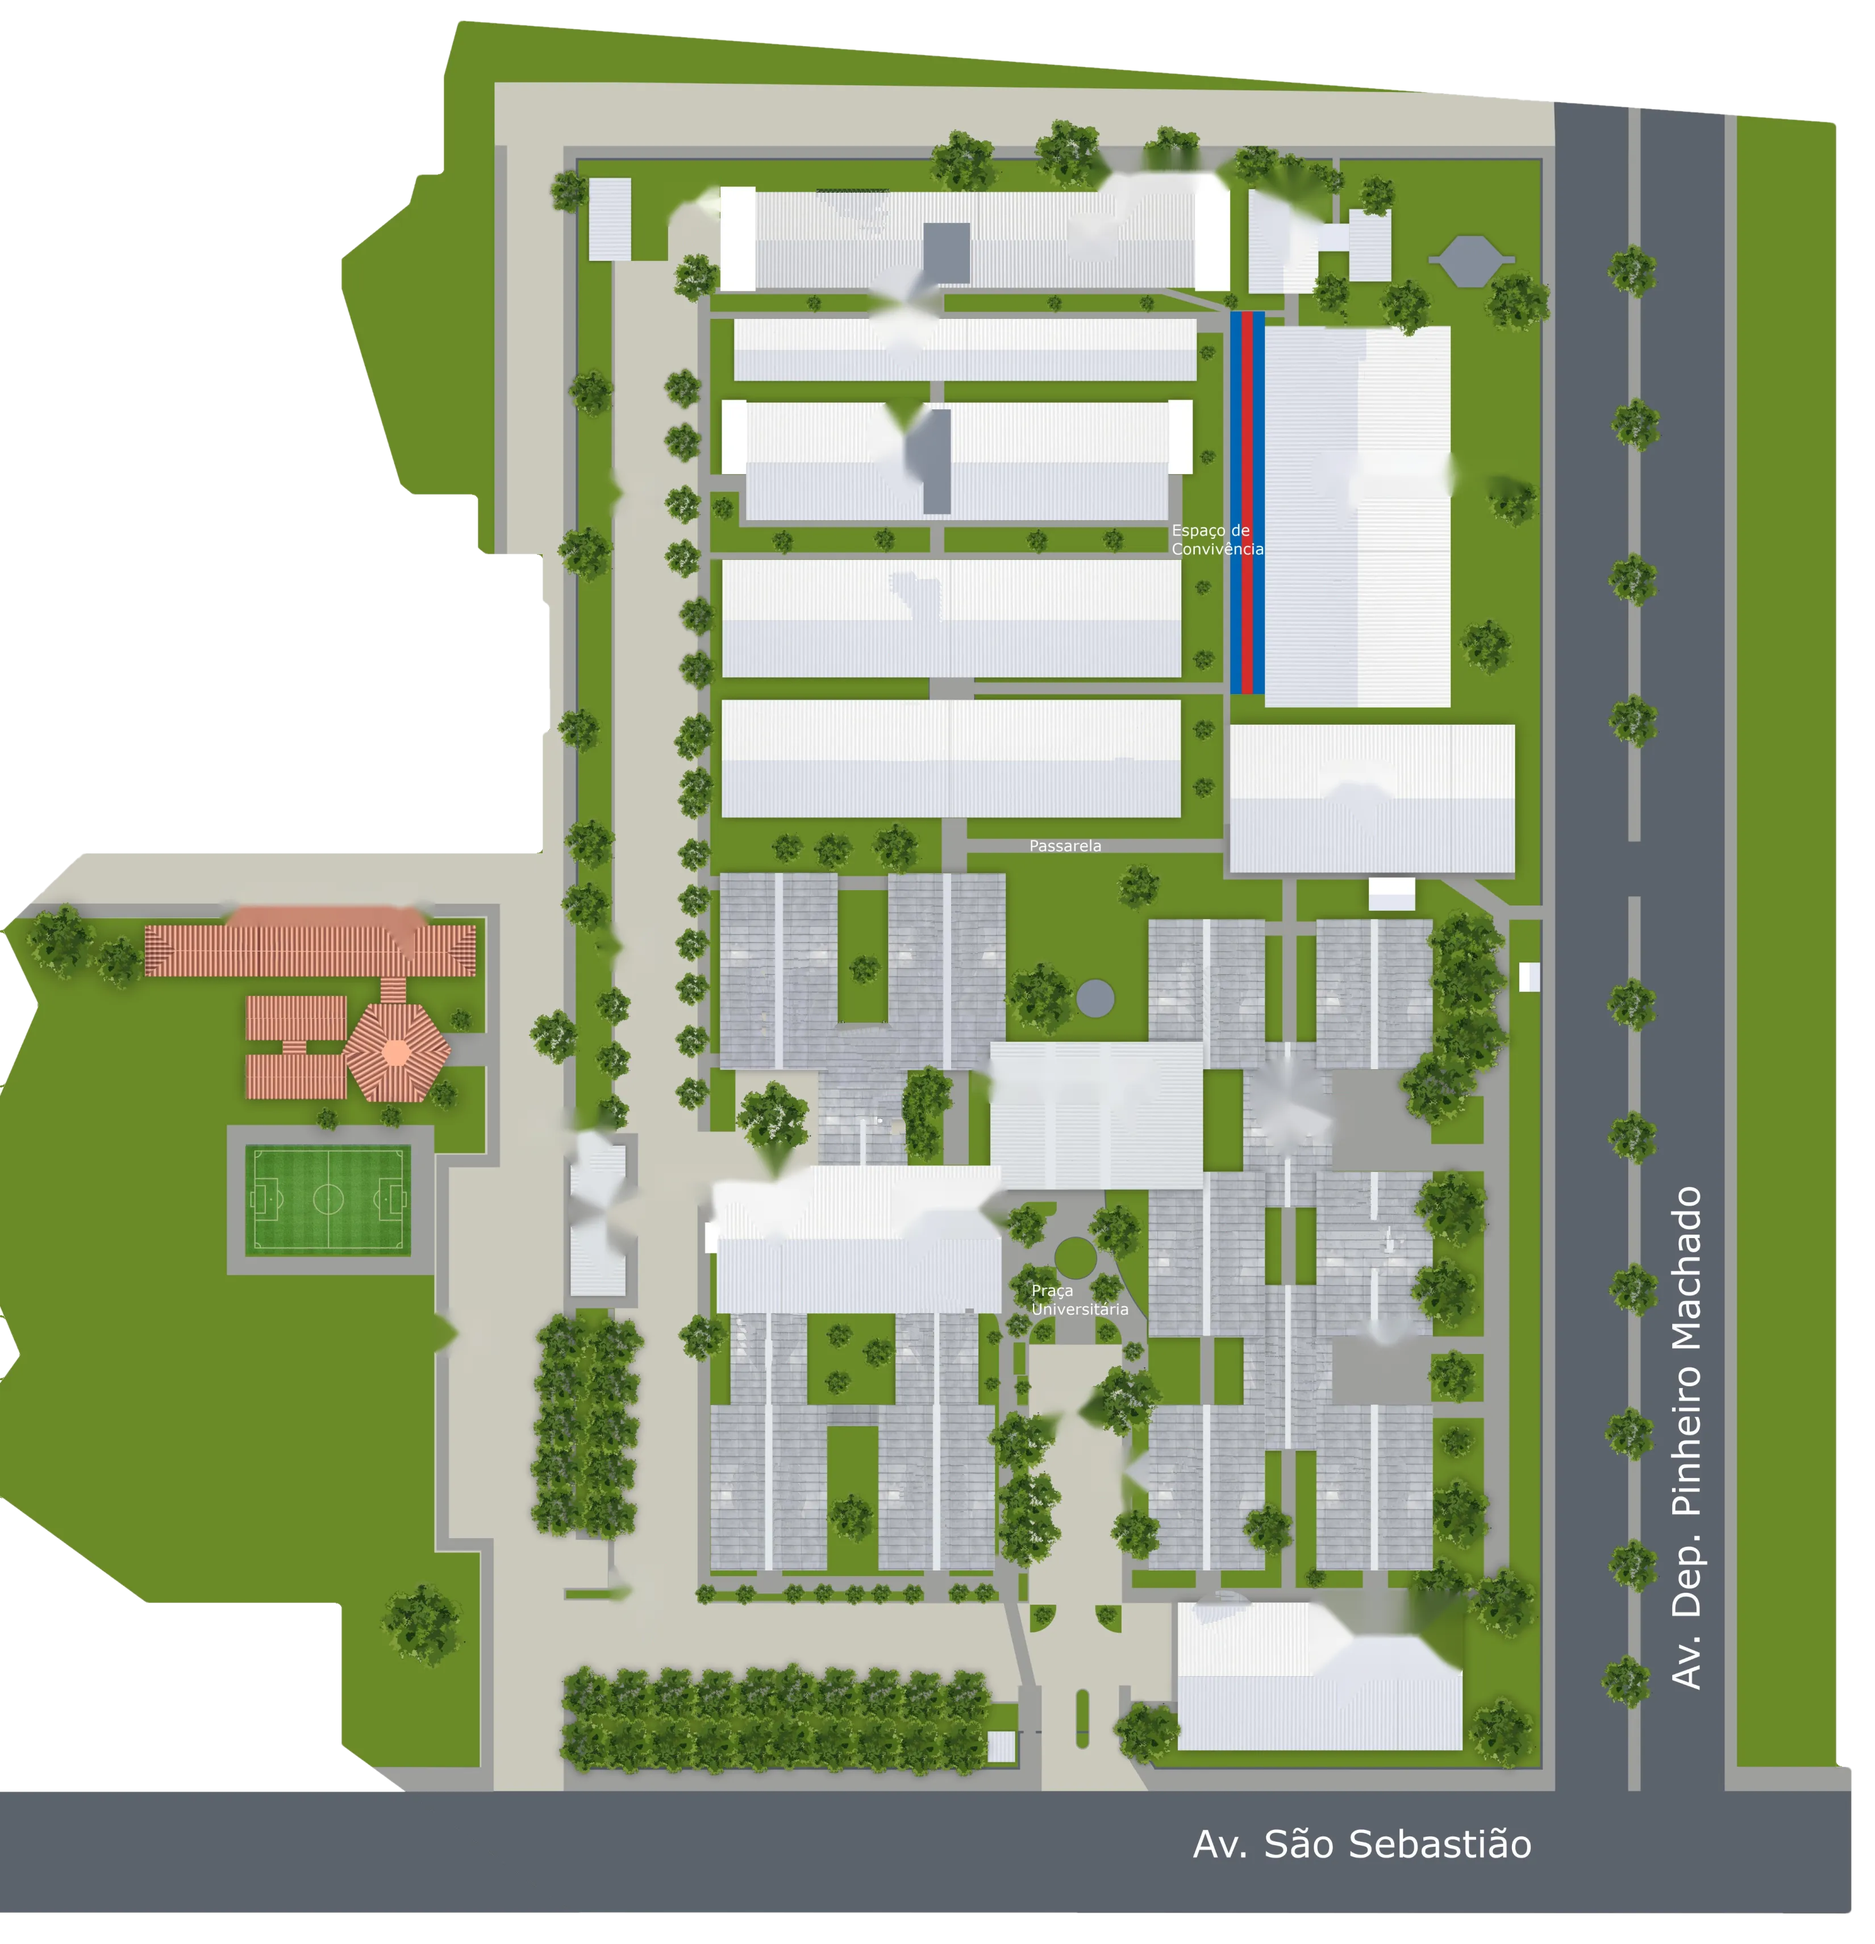
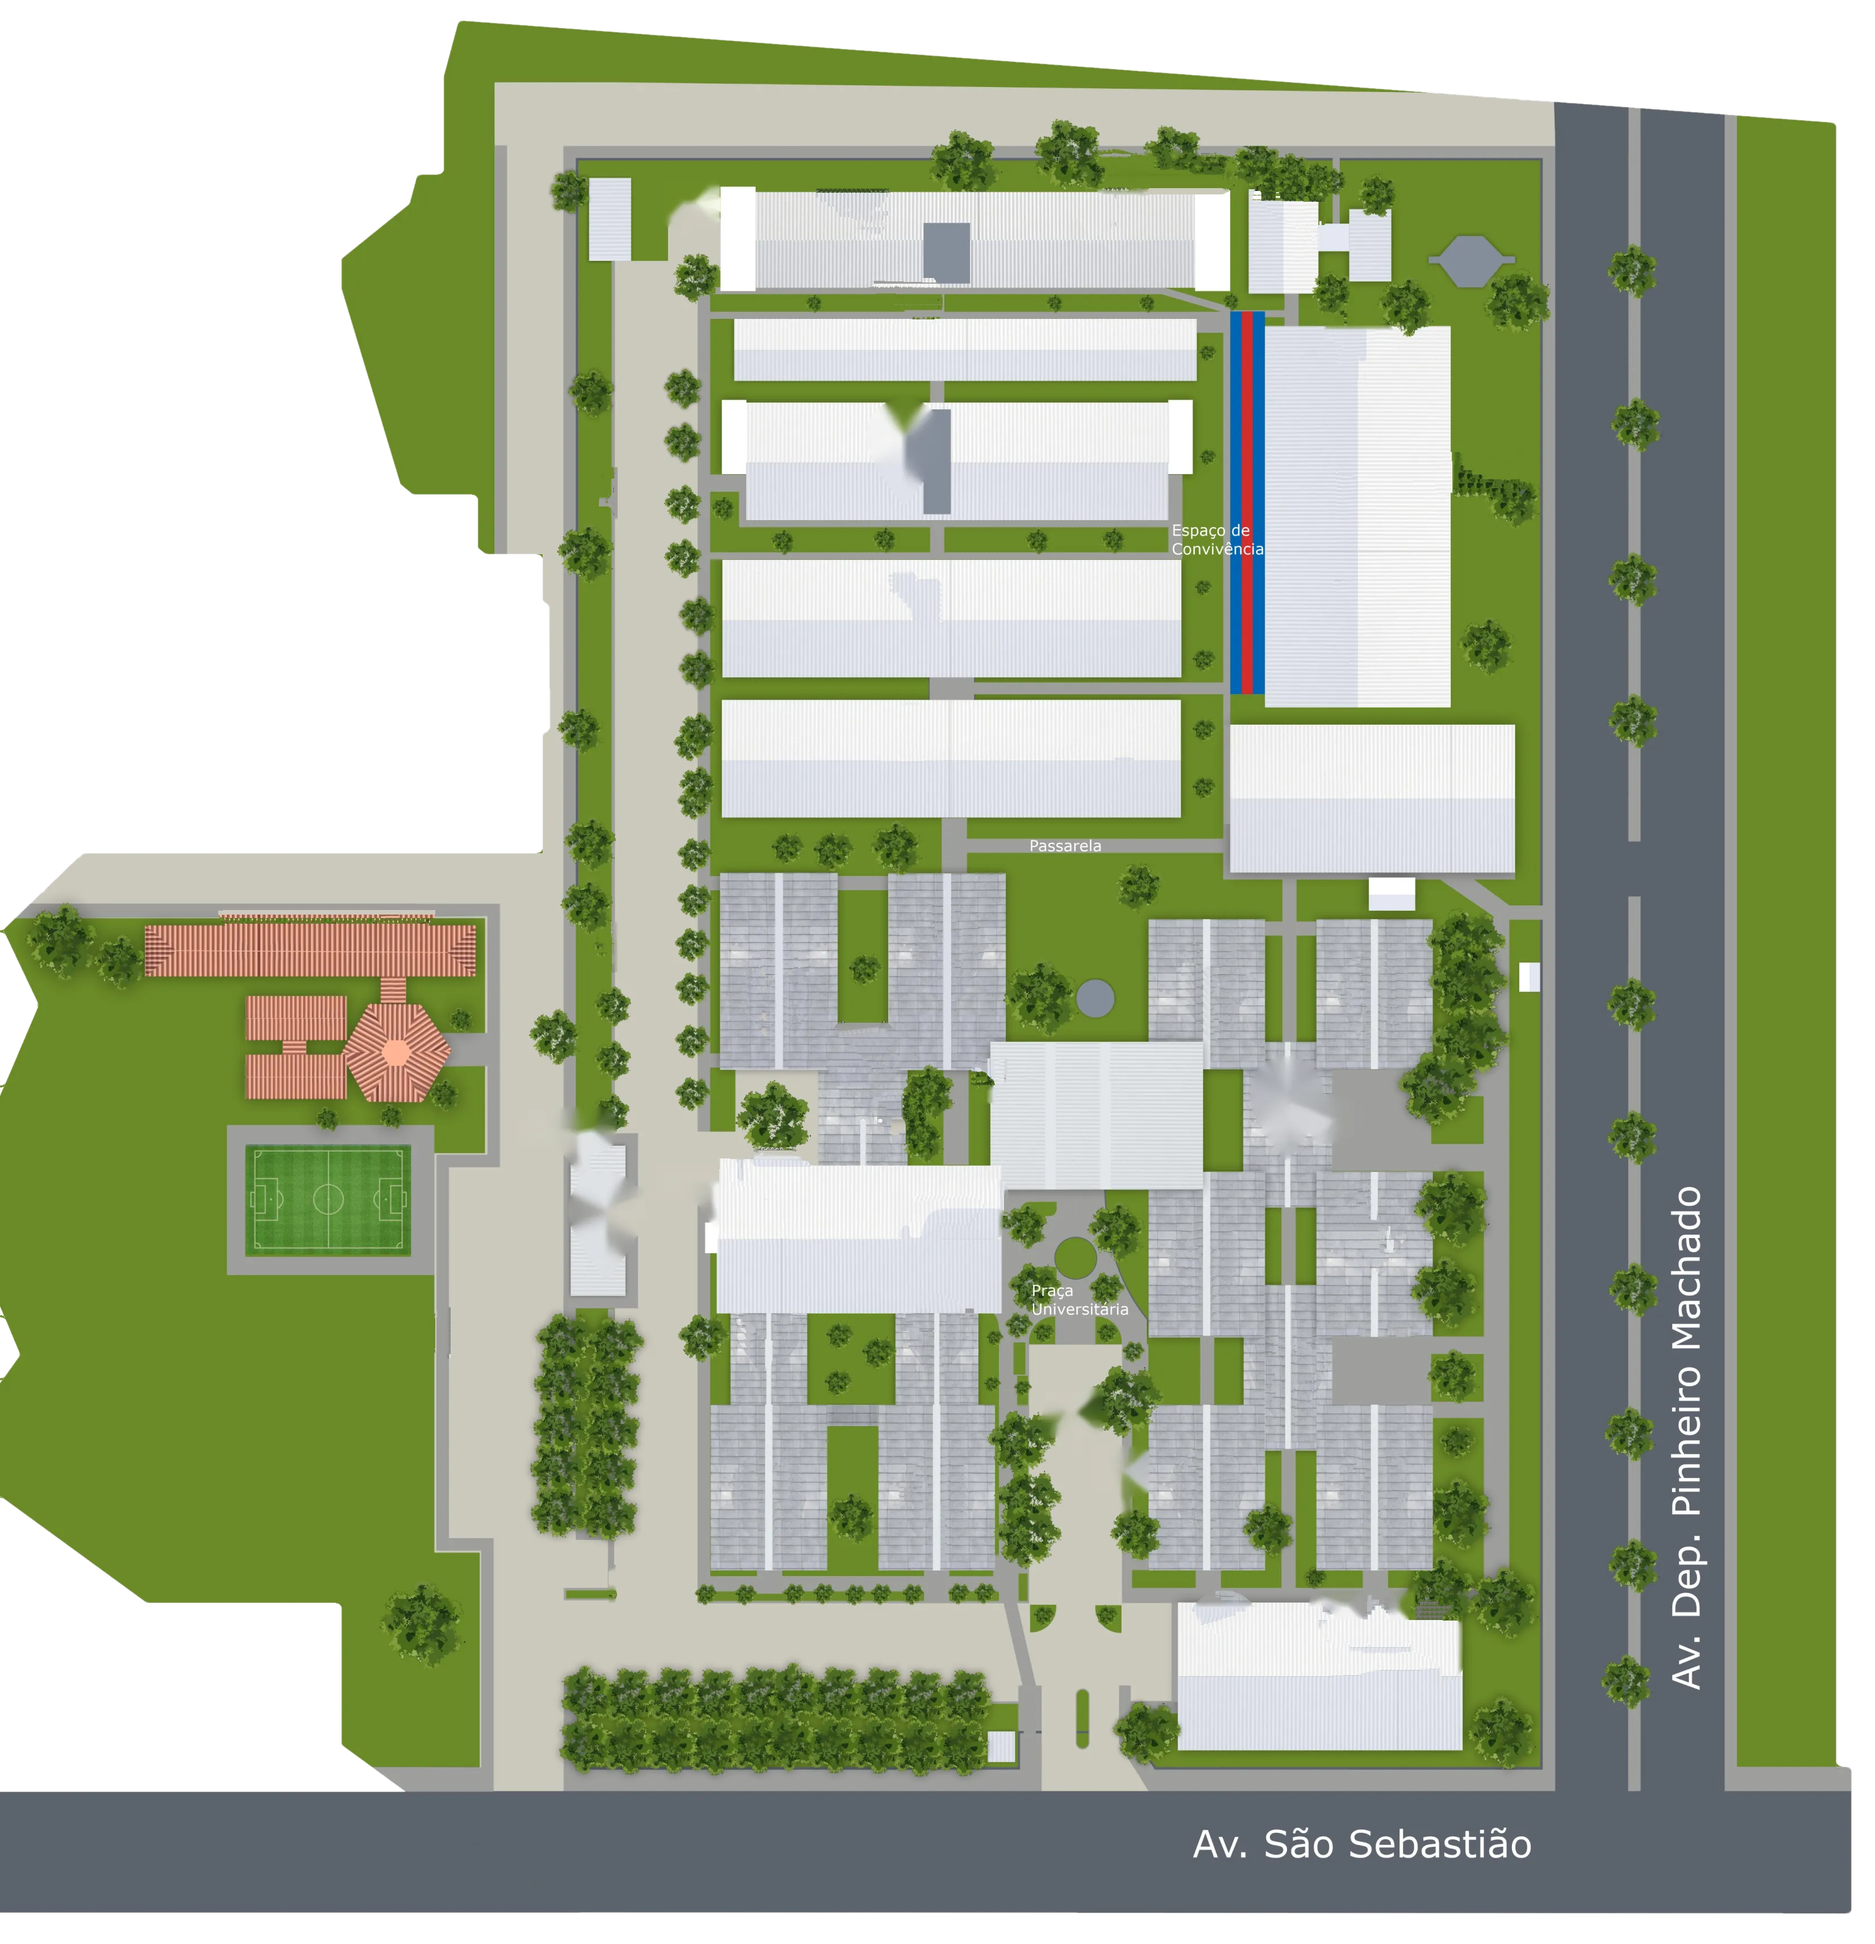
v1.7.1: planta com manchas removidas pelo contorno do OpenStreetMap (não publicada)
Claude-Session: https://claude.ai/code/session_011EvFwiXJ3Q4p2y1JwX9xA6

diff --git a/sw.js b/sw.js
@@ -1,5 +1,5 @@
 // Guarda a página e a planta para funcionar com sinal fraco no campus
-const C="onde-fica-v15",F=["./","index.html","planta-campus.webp?v=1.6.1","icone.svg","icone-180.png","manifest.webmanifest","tipografia/hind-latin-400-normal.woff2","tipografia/hind-latin-700-normal.woff2"];
+const C="onde-fica-v16",F=["./","index.html","planta-campus.webp?v=1.7.1","icone.svg","icone-180.png","manifest.webmanifest","tipografia/hind-latin-400-normal.woff2","tipografia/hind-latin-700-normal.woff2"];
 self.addEventListener("install",e=>e.waitUntil(caches.open(C).then(c=>c.addAll(F)).then(()=>self.skipWaiting())));
 self.addEventListener("activate",e=>e.waitUntil(caches.keys().then(k=>Promise.all(k.filter(x=>x!==C).map(x=>caches.delete(x)))).then(()=>self.clients.claim())));
 self.addEventListener("fetch",e=>{if(e.request.method!=="GET"||new URL(e.request.url).origin!==location.origin)return;

diff --git a/index.html b/index.html
@@ -396,7 +396,7 @@ const mk=(t,a,p=svg)=>{const e=document.createElementNS(NS,t);for(const k in a)e
 const gBase=mk("g",{}),gBld=mk("g",{}),gRoute=mk("g",{}),gIco=mk("g",{}),gStatic=mk("g",{class:"statics"}),gPins=mk("g",{});
 // base: ilustração oficial "Localize-se!" vetorizada, sem os pinos e etiquetas (redesenhados abaixo, clicáveis)
 mk("rect",{x:600,y:60,width:1400,height:1400,fill:"var(--paper)"},gBase);
-mk("image",{href:"planta-campus.webp?v=1.6.1",x:760,y:160,width:1100,height:1140,preserveAspectRatio:"none"},gBase);
+mk("image",{href:"planta-campus.webp?v=1.7.1",x:760,y:160,width:1100,height:1140,preserveAspectRatio:"none"},gBase);
 const els={};
 B.forEach(b=>{
   const [x,y,w,h]=b[5];

diff --git a/HISTORICO.md b/HISTORICO.md
@@ -81,6 +81,8 @@ Basta digitar o número que está no horário ("405") para saber bloco e andar (
 - **v1.6.1:** manchas sob os pinos. A limpeza antiga (TELEA) deixava um borrão com o formato do pino oficial apagado, visível acima de cada pino novo.
   Nova limpeza: cópia de amostras do próprio telhado (13 blocos) e preenchimento guiado por estrutura (7 blocos). **20 de 26 blocos sem mancha**;
   os Blocos 7, 14, 18, 21, 22 e 24 continuam com o borrão, porque os dois métodos novos pioravam esses casos.
+- **v1.7.1:** mais manchas removidas usando o **contorno real dos prédios no OpenStreetMap** como guia (Blocos 14, 22 e 24, 7 etiquetas e 5 ícones).
+  Cada contorno é encaixado na borda visível do desenho antes de preencher. Continuam com mancha: Blocos 7, 18 e 21 e três áreas pequenas.
 - **v1.7:** identidade visual da UFDPar (cores e tipografia do manual de 2026), fonte hospedada no próprio site (sem Google Fonts), novo ícone e nova imagem de prévia dos links.
 - **v1.6.2:** privacidade. GPS desliga sozinho (fora do campus, 10 min, página fora da tela) e com um segundo toque; busca sem
   resultado não manda mais o texto ao contador; aviso de privacidade no rodapé. Testado em Chromium sem tela com posição simulada (25 verificações).
@@ -127,7 +129,7 @@ nem a API do OpenStreetMap. O caminho que funciona é o usuário baixar os arqui
 ### Arquivos publicados
 | Arquivo | Papel |
 |---|---|
-| `index.html` | A página inteira: estilos, dados e lógica, sem bibliotecas externas. Só as fontes vêm do Google Fonts. |
+| `index.html` | A página inteira: estilos, dados e lógica, sem bibliotecas externas. A fonte fica em `tipografia/` (desde a v1.7, sem Google Fonts). |
 | `planta-campus.webp` | Base do mapa: ilustração oficial limpa, com transparência fora do campus (3300 × 3420 px, cerca de 320 KB). |
 | `sw.js` | Service worker: guarda a página e a planta para funcionar com sinal fraco. Só cuida de arquivos do próprio site. |
 | `manifest.webmanifest`, `icone.svg`, `icone-180.png` | Instalação na tela inicial do celular. |
@@ -214,6 +216,7 @@ Pasta `ferramentas/` (requer `pip install opencv-python-headless numpy`; `exempl
 | Script | O que faz | Saída |
 |---|---|---|
 | `limpar_planta.py` | Recorta a planta da imagem oficial, detecta e guarda os ícones, apaga pinos, etiquetas e ícones (*inpainting*: TELEA como base; cópia de amostras nos telhados contínuos e preenchimento guiado por estrutura nos pinos que cobriam bordas, só nos blocos das listas `REFAZER` e `ESTRUTURA`), deixa transparente a área fora da ilustração e estende a avenida | `saida/planta-campus.webp`, `dados/icones.json`, `dados/planta-limpa.png` |
+| `contorno_osm.py` | Módulo do `limpar_planta.py`: lê os prédios do OpenStreetMap, encaixa cada contorno na borda do desenho e preenche a mancha com a textura de cada lado (lista `CONTORNO`) | (usado pelo `limpar_planta.py`) |
 | `contornos.py` | Recorta o contorno do telhado de 11 prédios pela cor (branco ou telha) | `dados/contornos.json` (constante `OUTLINE`) |
 | `georreferencia.py` | Ajusta a planta às coordenadas reais pelos prédios do OpenStreetMap (mínimos quadrados) | `dados/georef.json` (constante `GEO`) |
 
@@ -267,7 +270,7 @@ essa pasta ficou desatualizada. **Não rode o atalho**, porque ele tentaria envi
 - O status do RU não considera feriados nem recesso.
 - O horário do Serviço Médico é de cerca de 2022.
 - Ainda não há dados de banheiros, rampas e elevadores por bloco.
-- Ainda há mancha dos pinos oficiais apagados nos Blocos 7, 14, 18, 21, 22 e 24.
+- Ainda há mancha dos pinos oficiais apagados nos Blocos 7, 18 e 21, numa área perto do Bloco 23 e em dois ícones da calçada central.
 
 **Do processo**
 - **Gravação no computador do usuário:** a ferramenta do Claude reaproveitou versões antigas quando o mesmo caminho de origem era usado de novo.
@@ -281,8 +284,8 @@ essa pasta ficou desatualizada. **Não rode o atalho**, porque ele tentaria envi
 ## 10. Pendências e próximos passos
 
 **Prioridade alta**
-- [ ] **Manchas restantes** (Blocos 7, 14, 18, 21, 22 e 24): retoque manual com carimbo/correção (ex.: Photopea) em `planta-campus.webp`,
-      ou a ilustração sem pinos da UFDPar. Se retocar à mão, subir a versão `?v=` no `index.html` e no `sw.js`.
+- [ ] **Manchas restantes** (Blocos 7, 18 e 21 e três áreas pequenas): retoque manual com carimbo/correção (ex.: Photopea) em `planta-campus.webp`,
+      ou a ilustração sem pinos da UFDPar. O Bloco 7 também melhoraria se fosse desenhado no OpenStreetMap. Se retocar à mão, subir a versão `?v=` no `index.html` e no `sw.js`.
 - [ ] **Criar a conta no GoatCounter** (`onde-fica-ufdpar`). Sem ela, o site não conta nada.
 - [ ] **Placas com QR code por bloco:** PDF para gráfica, com links `#bloco-XX`.
 - [ ] **Página de proposta para a UFDPar** (Comunicação Institucional, PREG, PRAE): problema, site, números de uso, o que precisam fornecer e o pedido da ilustração sem pinos.

diff --git a/README.md b/README.md
@@ -9,7 +9,7 @@ e do documento "UFDPar no Censo da Educação Superior".
 
 ## Arquivos
 - `index.html` — a página (dados dos blocos ficam no início do `<script>`)
-- `planta-campus.webp` — base do mapa (ilustração oficial limpa, sem pinos; 332 KB)
+- `planta-campus.webp` — base do mapa (ilustração oficial limpa, sem pinos; 342 KB)
 - `sw.js`, `manifest.webmanifest`, `icone.svg` — funcionamento offline e instalação no celular
 - `tipografia/` — fonte Hind (licença livre OFL, em `OFL.txt`), usada no lugar da Frutiger do manual de identidade da UFDPar
 

diff --git a/NOVIDADES.md b/NOVIDADES.md
@@ -5,6 +5,14 @@ A versão mais recente fica no topo.
 
 ---
 
+## Versão 1.7.1 · 24/10/2026
+
+**Correções**
+- Menos manchas no mapa: o telhado do Auditório (Bloco 14) e os Blocos 22 e 24 ficaram limpos, assim como as áreas sob 7 etiquetas e 5 ícones. A reconstrução agora usa o contorno real de cada prédio, tirado do OpenStreetMap.
+- Ainda há mancha nos Blocos 7, 18 e 21 e em três áreas pequenas.
+
+---
+
 ## Versão 1.7 · 24/10/2026
 
 **Visual**
